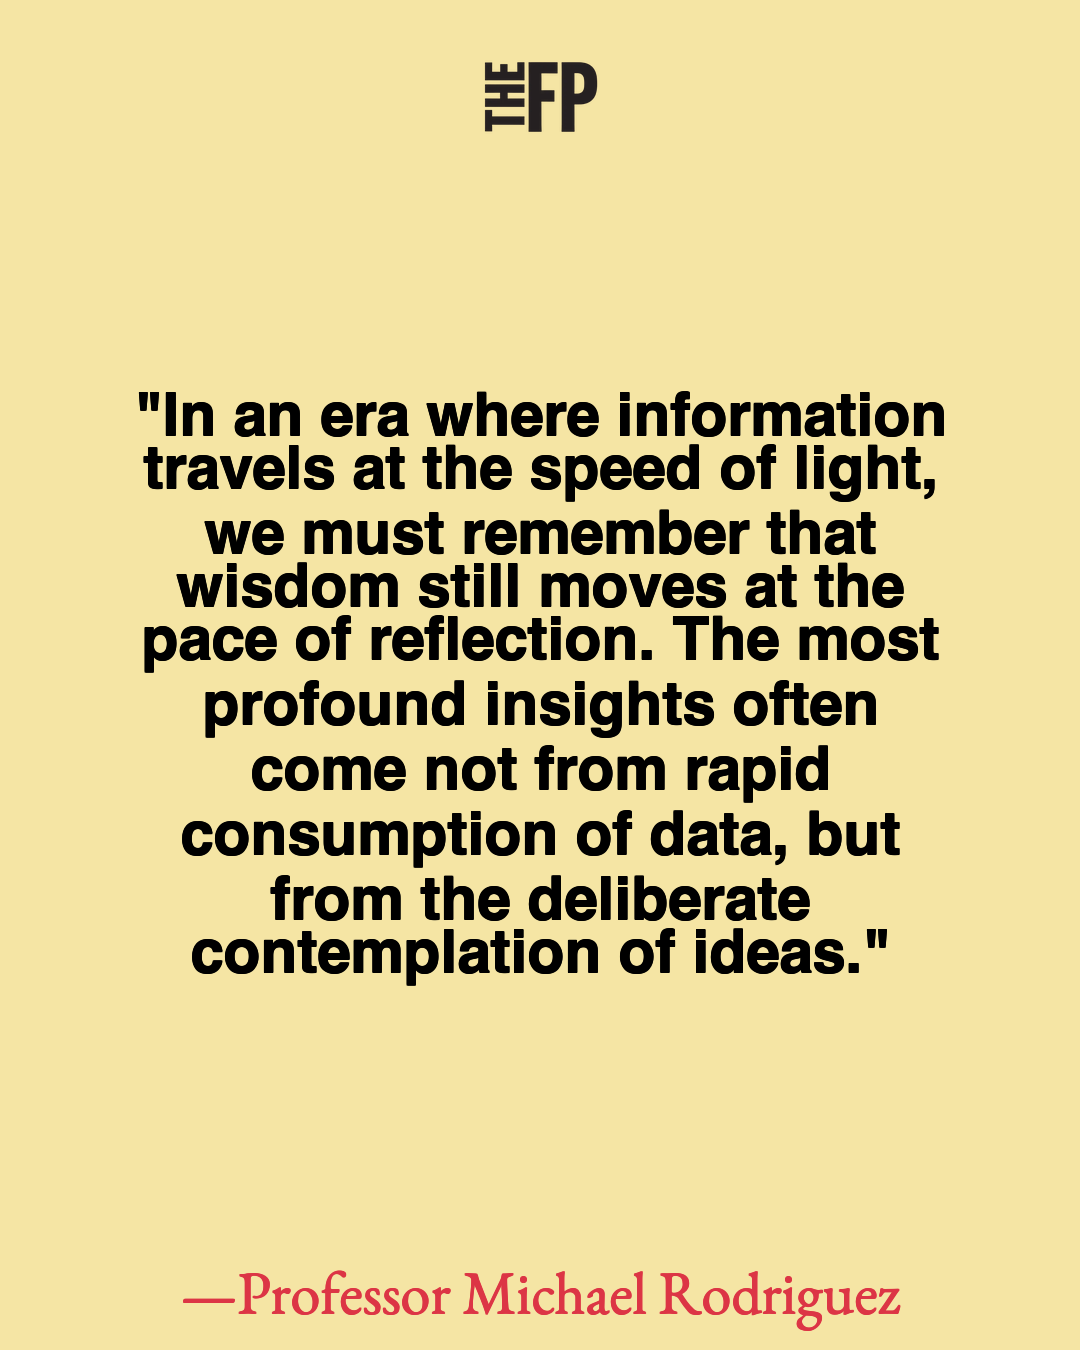
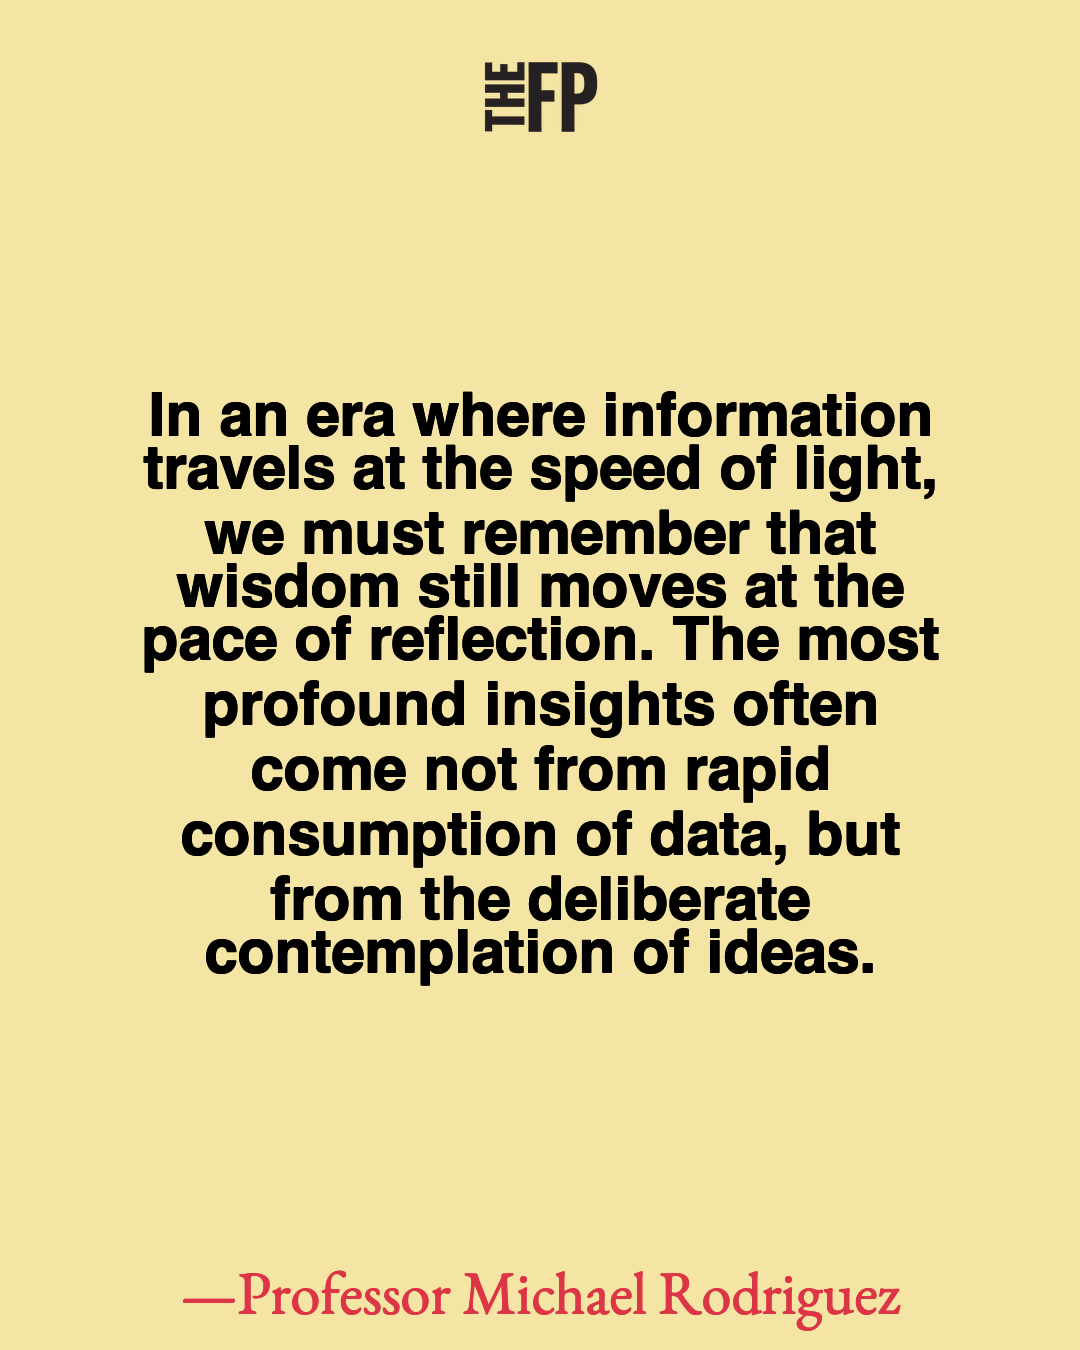
Remove quote normalization and wrapping functions from image generation logic, simplifying the text handling process. Updated test images to reflect changes in quote rendering.

Changed region(s): [[0.1222, 0.28, 0.8861, 0.3422], [0.1833, 0.6844, 0.825, 0.7467]]

diff --git a/src/fp_post_generation.py b/src/fp_post_generation.py
@@ -26,48 +26,7 @@ def _wrap_text(draw, text, font, max_width):
         lines.append(" ".join(current_line))
     return lines
 
-def _normalize_quotes(text: str) -> str:
-    """
-    Ensure nested quotes inside the pullout use single quotes, not double quotes,
-    while preserving apostrophes inside words. Converts paired double quotes
-    (straight or curly) used as quoting delimiters into single quotes.
-    """
-    if not text:
-        return text
 
-    normalized = text
-
-    # Boundaries: avoid converting apostrophes inside words
-    boundary_before = r'(^|[\s\(\[\{])'
-    boundary_after = r'(?=[\s\)\]\}\.,;:!?]|$)'
-
-    # Curly double quotes → single quotes when used as quoting delimiters
-    def repl_curly_doubles(m):
-        before, inner = m.group(1), m.group(2)
-        return f"{before}'{inner}'"
-
-    normalized = re.sub(boundary_before + r'"([^"]+)"' + boundary_after, repl_curly_doubles, normalized)
-
-    # Straight double quotes → single quotes when used as quoting delimiters
-    def repl_straight_doubles(m):
-        before, inner = m.group(1), m.group(2)
-        return f"{before}'{inner}'"
-
-    normalized = re.sub(boundary_before + r'"([^"\n]+)"' + boundary_after, repl_straight_doubles, normalized)
-
-    return normalized
-
-def _ensure_wrapped_in_double(text: str) -> str:
-    """Wrap entire text in straight double quotes if not already double-quoted."""
-    if not text:
-        return text
-    stripped = text.strip()
-    if (stripped.startswith('"') and stripped.endswith('"')) or (
-        stripped.startswith('"') and stripped.endswith('"')
-    ):
-        # Normalize to straight doubles for rendering consistency
-        return '"' + stripped.strip('""').strip('"') + '"'
-    return '"' + stripped + '"'
 
 def _draw_bold_text(draw, text, position, font, fill):
     """Draw text with simulated bold effect by drawing multiple times with slight offsets."""
@@ -91,7 +50,7 @@ def generate_image(quote, byline, title, save_dir=None):
     draw = ImageDraw.Draw(image)
 
     # 4. Define the text to display. This is a long paragraph to match the image.
-    long_text = _ensure_wrapped_in_double(_normalize_quotes(quote))
+    long_text = quote
     byline_text = "-Oren Hartstein"
     logo_text = "The Free Press"
 
